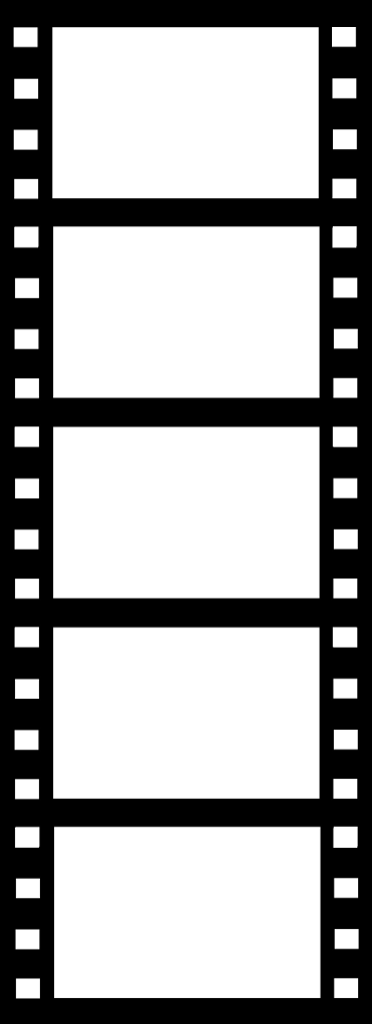
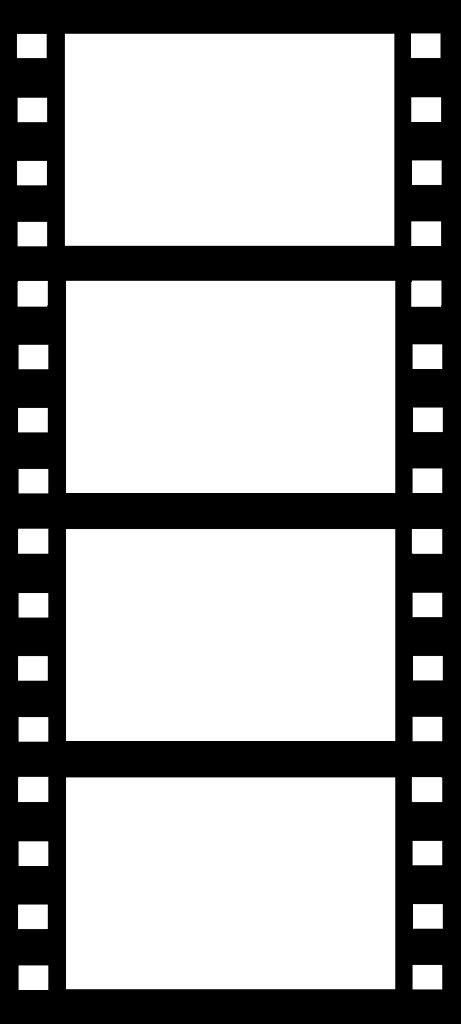
Put the blank canvases back in and positioned them properly on the photo strip.

Changed region(s): [[0.0296, 0.0, 0.9758, 1.0], [0.1478, 0.0, 0.8575, 0.0625]]

diff --git a/main.py b/main.py
@@ -177,13 +177,11 @@ class PaintWidget(Widget):
 
 class Viewer(ScrollView):
     def set_path(self, path):
-        return
         self.path = path
         self.image0.source = os.path.join(path, '0.jpg')
         self.image1.source = os.path.join(path, '1.jpg')
         self.image2.source = os.path.join(path, '2.jpg')
     def clear_path(self, *args):
-        return
         self.path = None
         source = 'atlas://data/images/defaulttheme/filechooser_file'
         self.image0.source = source
@@ -191,23 +189,27 @@ class Viewer(ScrollView):
         self.image2.source = source
     def __init__(self, *args, **kwargs):
         super(Viewer, self).__init__(size_hint=(1,1), pos_hint={'center_x': 0.5, 'center_y': 0.5}, do_scroll_x=False, *args, **kwargs)
-#        self.grid = GridLayout(cols=1, spacing=8, size_hint_y=None, size_hint_x=0.7, pos_hint={'center_x': 0.5})
-        self.strip = Image(source='photos-strip.png', size_hint_y=2)
-        self.add_widget(self.strip)
+        self.layout = FloatLayout(size_hint_y=2)
+        def update_rect(instance, value):
+            instance.bg.pos = instance.pos
+            instance.bg.size = instance.size
+        self.layout.bind(size=update_rect,pos=update_rect)
+        with self.layout.canvas.before:
+            self.layout.bg = Image(source='photos-strip.png', allow_stretch=True)
+        self.add_widget(self.layout)
         self.path = None
-        return
 
-        self.image0 = red_canvas()
-#        self.image0 = Image(source='atlas://data/images/defaulttheme/filechooser_file')
-        self.add_widget(self.image0)
-        self.image1 = green_canvas()
-#        self.image1 = Image(source='atlas://data/images/defaulttheme/filechooser_file')
-        self.add_widget(self.image1)
-        self.image2 = blue_canvas()
-#        self.image2 = Image(source='atlas://data/images/defaulttheme/filechooser_file')
-        self.add_widget(self.image2)
-        self.image3 = blank_canvas()
-        self.add_widget(self.image3)
+        self.image0 = red_canvas(size_hint=(0.391,0.208), pos_hint={'center_x': 0.5, 'center_y': 0.8625})
+#        self.image0 = Image(size_hint=(0.391,0.208), pos_hint={'center_x': 0.5, 'center_y': 0.8625}, source='atlas://data/images/defaulttheme/filechooser_file')
+        self.layout.add_widget(self.image0)
+        self.image1 = green_canvas(size_hint=(0.391,0.208), pos_hint={'center_x': 0.5, 'center_y': 0.6225})
+##        self.image1 = Image(size_hint=(0.391,0.208), pos_hint={'center_x': 0.5, 'center_y': 0.8625}, source='atlas://data/images/defaulttheme/filechooser_file')
+        self.layout.add_widget(self.image1)
+        self.image2 = blue_canvas(size_hint=(0.391,0.208), pos_hint={'center_x': 0.5, 'center_y': 0.3799})
+##        self.image2 = Image(size_hint=(0.391,0.208), pos_hint={'center_x': 0.5, 'center_y': 0.8625}, source='atlas://data/images/defaulttheme/filechooser_file')
+        self.layout.add_widget(self.image2)
+        self.image3 = blank_canvas(size_hint=(0.391,0.208), pos_hint={'center_x': 0.5, 'center_y': 0.1365})
+        self.layout.add_widget(self.image3)
 
 class Main(App):
     def pressed_back(self, *args):
